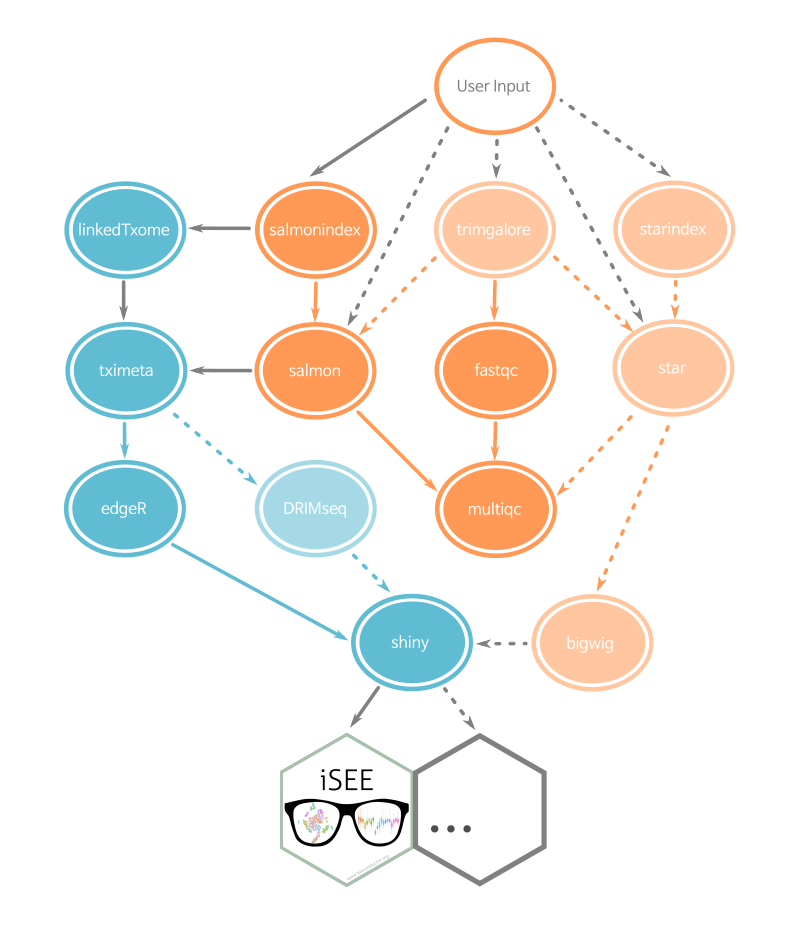
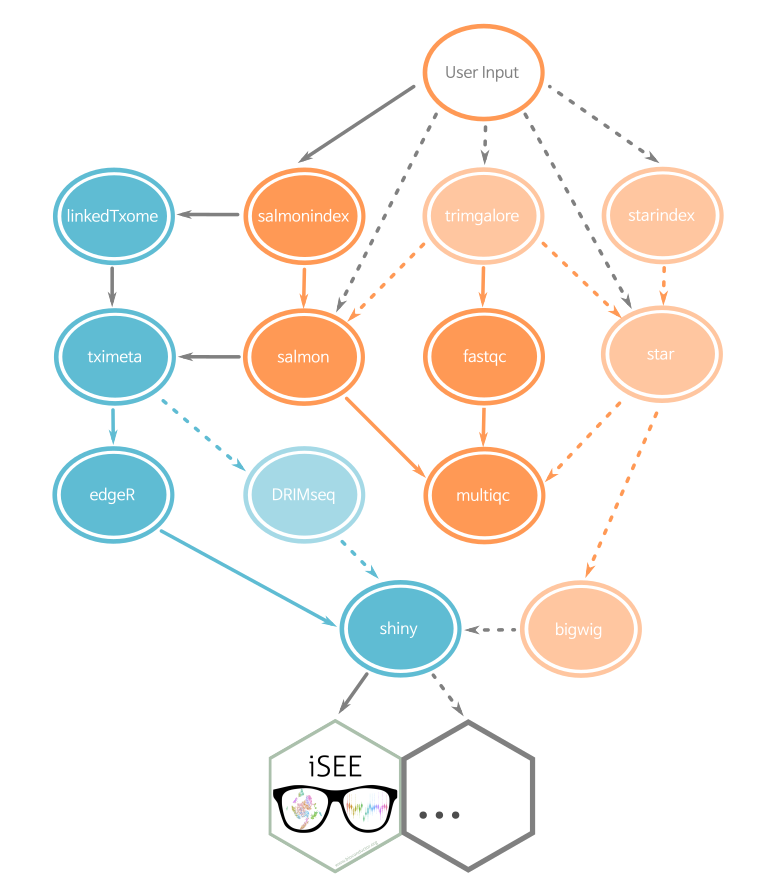
removed some white space

diff --git a/README.md b/README.md
@@ -13,8 +13,8 @@ Current contributors include:
 - [Mark D. Robinson](https://github.com/markrobinsonuzh)
 - [Charlotte Soneson](https://github.com/csoneson)
 
-![DAG](dag_nice3.png)
-DAG of workflow: Blue circles are rules run in `R`, orange circles from software called as shell commands. Dashed lines and light-colored are optional rules, controlled in `config.yaml`]
+![DAG](dag_nice3.png)  
+DAG of workflow: Blue circles are rules run in `R`, orange circles from software called as shell commands. Dashed lines and light-colored are optional rules, controlled in `config.yaml`
 
 
 ## Using the RNA-seq workflow
